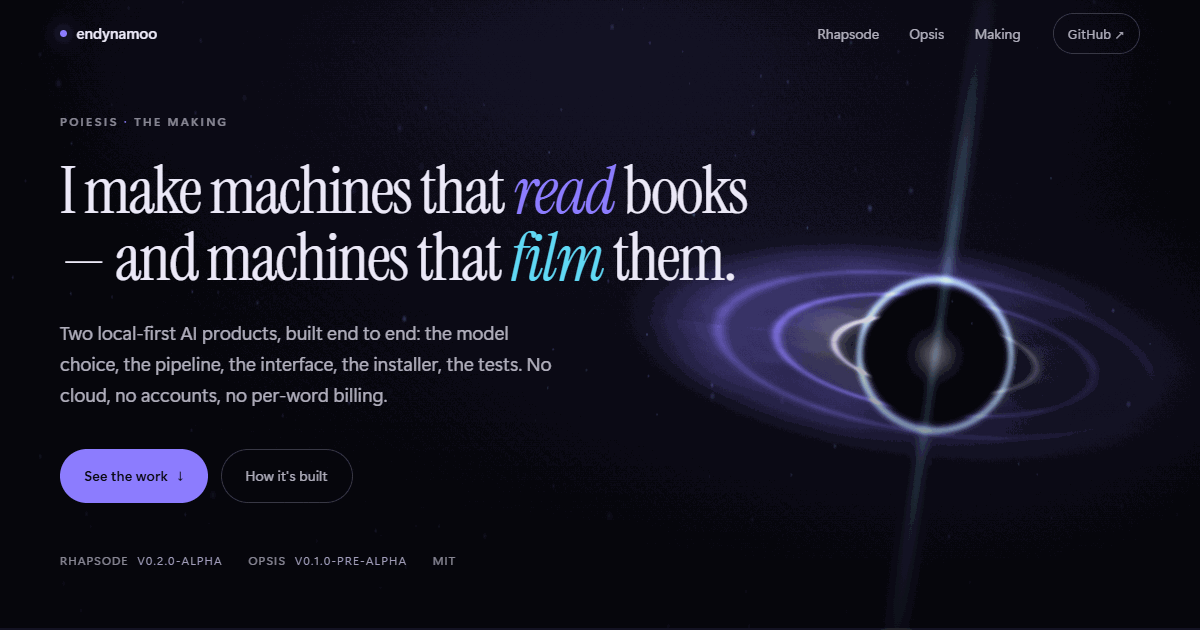
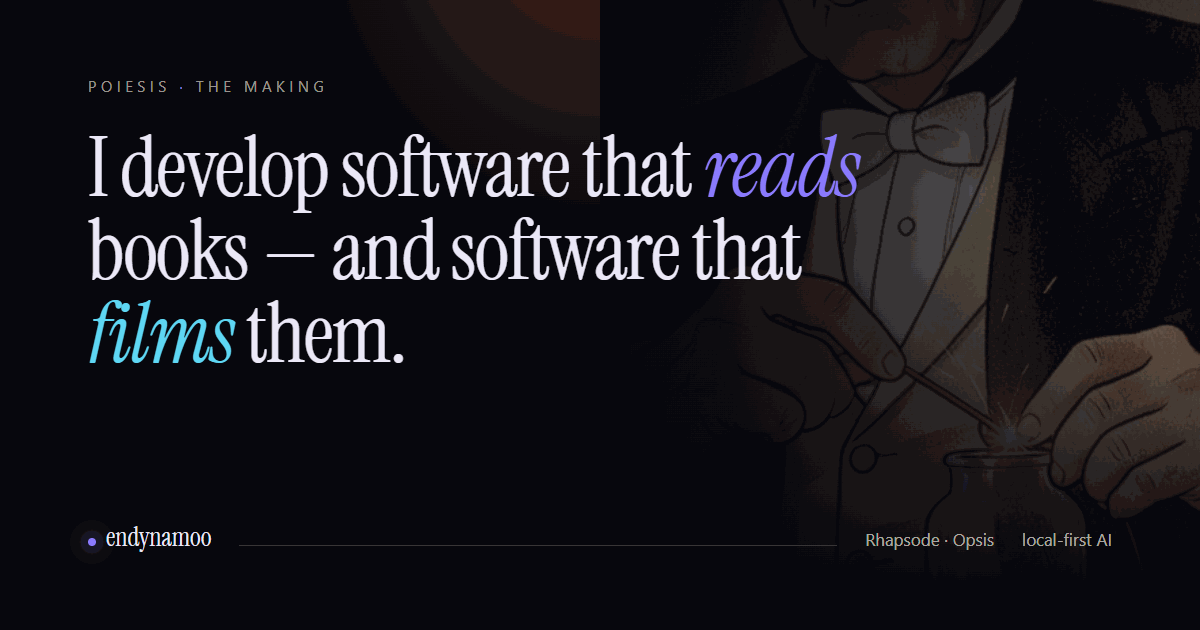
copy: say what I develop, say who builds it, mark Opsis unreleased (#3)
- Hero now reads 'I develop software that reads books - and software that films
  them'; the OG card is re-rendered to match.
- A byline under the lede and a line at the top of The making name endynamoo.
- The Rhapsode panel is current with 0.3.4-beta (translation, search, warm
  playback, formats incl. URL) and the demo slate stops pinning a version.
- The Opsis stage carries an Unreleased - ETA ~2 weeks to public beta banner.

diff --git a/index.html b/index.html
@@ -10,12 +10,12 @@
 <link rel="icon" href="assets/favicon.svg" type="image/svg+xml">
 <meta property="og:type" content="website">
 <meta property="og:title" content="endynamoo — Poiesis">
-<meta property="og:description" content="I make machines that read books — and machines that film them.">
+<meta property="og:description" content="I develop software that reads books - and software that films them.">
 <meta property="og:image" content="https://endynamoo.github.io/poiesis/assets/img/og.png">
 <meta property="og:url" content="https://endynamoo.github.io/poiesis/">
 <meta name="twitter:card" content="summary_large_image">
 <link rel="preload" href="assets/fonts/instrument-serif-latin.woff2" as="font" type="font/woff2" crossorigin>
-<link rel="stylesheet" href="assets/css/site.css?v=7">
+<link rel="stylesheet" href="assets/css/site.css?v=8">
 </head>
 <body>
 <a class="skip" href="#rhapsode">Skip to the work</a>
@@ -45,21 +45,25 @@
     <div class="hero__inner">
       <p class="eyebrow reveal">Poiesis <span class="dot">·</span> the making</p>
       <h1 id="hero-title" class="display">
-        <span class="line">I&nbsp;make machines that <em>read</em> books</span>
-        <span class="line">— and machines that <em class="cold">film</em> them.</span>
+        <span class="line">I&nbsp;develop software that <em>reads</em> books</span>
+        <span class="line">— and software that <em class="cold">films</em> them.</span>
       </h1>
       <p class="lede reveal">
         Two local&#8209;first AI products, built end to end: the model choice, the
         pipeline, the interface, the installer, the tests. No cloud, no accounts,
         no per&#8209;word billing.
       </p>
+      <p class="hero__by reveal">
+        Built by <a href="https://github.com/endynamoo" target="_blank" rel="noopener">endynamoo</a>
+        — software that runs on your machine, not on someone's meter.
+      </p>
       <div class="hero__actions reveal">
         <a class="btn btn--accent" href="#rhapsode">See the work <span aria-hidden="true">↓</span></a>
         <a class="btn btn--ghost" href="#making">How it's built</a>
       </div>
       <ul class="hero__meta reveal">
-        <li>Rhapsode <span>v0.2.0&#8209;alpha</span></li>
-        <li>Opsis <span>v0.1.0&#8209;pre&#8209;alpha</span></li>
+        <li>Rhapsode <span>v0.3.4&#8209;beta</span></li>
+        <li>Opsis <span>v0.1.1&#8209;pre&#8209;alpha</span></li>
         <li>MIT</li>
       </ul>
     </div>
@@ -105,21 +109,23 @@
           It reads to you.<br>Then it paints what you heard.
         </h2>
         <p class="body reveal">
-          Drop in a book, a PDF, a scanned page or a screenshot. Rhapsode speaks it in a
-          local voice and draws a still for every beat — and the highlight follows Kokoro's
-          <em>phoneme timings</em>, not a guess, so the words and the voice never drift apart.
+          Drop in a book, a PDF, a scanned page, a screenshot or a URL. Rhapsode speaks it in a
+          local voice and lights each word as it is said — the highlight follows Kokoro's
+          <em>phoneme timings</em>, not a guess, so the words and the voice never drift apart. It
+          paints a manga still for every beat, and a chapter can be cut into a 1080p film.
         </p>
         <p class="body reveal">
-          OCR is on&#8209;device on all three platforms. Translation is too, through whatever
-          local model you already run. A chapter can be assembled into a 1080p cut, still
-          entirely on your machine.
+          OCR is on&#8209;device on all three platforms, and so is translation — through Apple's
+          own framework on macOS, or a local model you already run anywhere else. Search finds a
+          passage across the whole library by words or by meaning, and opening a book pre-reads
+          the first sentences so the first press of play is instant.
         </p>
 
         <dl class="specs reveal">
-          <div><dt>Voice</dt><dd>Kokoro&#8209;82M, on&#8209;device</dd></div>
-          <div><dt>Library</dt><dd>54 voices · 9 languages · 0.75–3× </dd></div>
-          <div><dt>Formats</dt><dd>EPUB · PDF · DOCX · RTF · MD · OCR</dd></div>
-          <div><dt>Runs on</dt><dd>Windows · macOS · Linux</dd></div>
+          <div><dt>Voice</dt><dd>Kokoro&#8209;82M · 54 voices · 9 languages</dd></div>
+          <div><dt>Reads</dt><dd>EPUB · PDF · DOCX · RTF · MD · OCR · URL</dd></div>
+          <div><dt>Search</dt><dd>Words or meaning, across the library</dd></div>
+          <div><dt>Runs on</dt><dd>Windows · macOS · Linux · 0.75–3×</dd></div>
         </dl>
 
         <a class="arrow-link reveal" href="https://github.com/endynamoo/rhapsode" target="_blank" rel="noopener">
@@ -165,7 +171,7 @@
     <figure class="demo reveal" aria-labelledby="demo-title">
       <div class="demo__slate">
         <p class="demo__rec"><i aria-hidden="true"></i> Unedited take</p>
-        <p class="demo__meta" id="demo-title">Rhapsode 0.2.0 · library, voice, search, chapter film · 1:05</p>
+        <p class="demo__meta" id="demo-title">Rhapsode · library, voice, search, chapter film · 1:05</p>
       </div>
 
       <div class="demo__frame">
@@ -208,7 +214,7 @@
   <section class="opsis" id="opsis" aria-labelledby="opsis-title">
     <div class="opsis__pin">
 
-      <div class="opsis__media" aria-hidden="true">
+      <div class="opsis__media">
         <img src="assets/img/frame-01.webp" alt="" class="opsis__frame is-on" data-frame="0" width="832" height="464">
         <img src="assets/img/frame-02.webp" alt="" class="opsis__frame" data-frame="1" width="832" height="464" loading="lazy">
         <img src="assets/img/frame-03.webp" alt="" class="opsis__frame" data-frame="2" width="832" height="464" loading="lazy">
@@ -217,8 +223,14 @@
         <img src="assets/img/frame-06.webp" alt="" class="opsis__frame" data-frame="5" width="832" height="464" loading="lazy">
         <img src="assets/img/frame-07.webp" alt="" class="opsis__frame" data-frame="6" width="832" height="464" loading="lazy">
         <img src="assets/img/frame-08.webp" alt="" class="opsis__frame" data-frame="7" width="832" height="464" loading="lazy">
-        <div class="opsis__scrim"></div>
-        <p class="opsis__slate"><span id="slate-shot">SHOT 03 / 22</span><span id="slate-take">TAKE b2</span></p>
+        <div class="opsis__scrim" aria-hidden="true"></div>
+        <p class="opsis__slate" aria-hidden="true"><span id="slate-shot">SHOT 03 / 22</span><span id="slate-take">TAKE b2</span></p>
+
+        <p class="opsis__banner">
+          <i aria-hidden="true"></i>
+          <span>Unreleased</span>
+          <span class="opsis__banner-note">ETA ~2 weeks to public beta</span>
+        </p>
       </div>
 
       <div class="opsis__copy">
@@ -279,6 +291,11 @@
       <div class="making__head">
         <p class="index reveal"><span>03</span> The making</p>
         <h2 id="making-title" class="display h2 reveal">Four things I'd want to see<br>if someone showed me an AI product.</h2>
+        <p class="body making__by reveal">
+          All of it is built by one person, under the name
+          <a href="https://github.com/endynamoo" target="_blank" rel="noopener">endynamoo</a> — the
+          same handle on every commit, every release and every installer.
+        </p>
       </div>
 
       <ol class="receipts">

diff --git a/assets/css/site.css b/assets/css/site.css
@@ -263,6 +263,16 @@ code { font-family: var(--mono); font-size: .88em; color: var(--paper-70); }
   margin: 0 0 2.4rem;
 }
 .hero__actions { display: flex; flex-wrap: wrap; gap: .8rem; }
+.hero__by {
+  max-width: 50ch; margin: -1.1rem 0 2.2rem;
+  font-size: .88rem; line-height: 1.6; color: var(--paper-45);
+}
+.hero__by a, .making__by a {
+  color: var(--paper); text-decoration: none;
+  border-bottom: 1px solid var(--accent);
+  transition: color .2s var(--ease), border-color .2s var(--ease);
+}
+.hero__by a:hover, .making__by a:hover { color: var(--accent); border-color: var(--paper); }
 .hero__meta {
   display: flex; flex-wrap: wrap; gap: 1.6rem;
   list-style: none; margin: 3rem 0 0; padding: 0;
@@ -485,6 +495,23 @@ code { font-family: var(--mono); font-size: .88em; color: var(--paper-70); }
   color: var(--paper-45);
 }
 .opsis__slate span:first-child { color: var(--paper); }
+.opsis__banner {
+  position: absolute; z-index: 3; top: 124px; right: var(--gutter);
+  display: inline-flex; align-items: center; gap: .55rem;
+  padding: .45rem .95rem; border-radius: 999px;
+  border: 1px solid rgba(139, 123, 255, .45);
+  background: rgba(139, 123, 255, .10);
+  -webkit-backdrop-filter: blur(8px); backdrop-filter: blur(8px);
+  font-family: var(--mono); font-size: .66rem; letter-spacing: .14em;
+  text-transform: uppercase; color: var(--paper);
+}
+.opsis__banner i {
+  width: 6px; height: 6px; border-radius: 50%; background: var(--accent);
+  box-shadow: 0 0 10px 2px rgba(139, 123, 255, .55);
+  animation: beacon 2.6s ease-in-out infinite;
+}
+.opsis__banner-note { color: var(--paper-45); }
+@keyframes beacon { 0%, 100% { opacity: 1; } 50% { opacity: .35; } }
 .opsis__copy {
   position: relative; z-index: 2;
   width: min(var(--wrap), 100% - var(--gutter) * 2); margin-inline: auto;
@@ -557,6 +584,7 @@ code { font-family: var(--mono); font-size: .88em; color: var(--paper-70); }
     linear-gradient(180deg, #07070d 0%, #0b0b15 40%, #07070d 100%);
 }
 .making__head { max-width: 52rem; margin-bottom: clamp(3rem, 7vh, 5rem); }
+.making__by { margin: 1.5rem 0 0; max-width: 46ch; color: var(--paper-45); line-height: 1.62; }
 .receipts {
   list-style: none; padding: 0; margin: 0;
   display: grid; grid-template-columns: repeat(4, 1fr); gap: 0;
@@ -675,6 +703,7 @@ code { font-family: var(--mono); font-size: .88em; color: var(--paper-70); }
     background: linear-gradient(180deg, rgba(7, 7, 13, .3), rgba(7, 7, 13, .96) 76%, #07070d 100%);
   }
   .opsis__slate { top: 76px; }
+  .opsis__banner { top: 100px; }
   .opsis__copy { padding-top: 0; max-width: none; }
   .opsis__copy > * { max-width: 38rem; }
   .opsis__rail { position: relative; inset: auto; margin: 3rem auto 0; width: min(var(--wrap), 100% - var(--gutter) * 2); }

diff --git a/tools/og-source.html b/tools/og-source.html
@@ -58,7 +58,7 @@
   <div class="scrim"></div>
   <div class="wrap">
     <p class="eyebrow">Poiesis <b>&middot;</b> the making</p>
-    <h1>I make machines that <em>read</em> books &mdash; and machines that <em class="cold">film</em> them.</h1>
+    <h1>I develop software that <em>reads</em> books &mdash; and software that <em class="cold">films</em> them.</h1>
     <div class="foot">
       <span class="name"><span class="dot"></span>endynamoo</span>
       <span class="rule"></span>

diff --git a/docs/superpowers/specs/2026-11-17-poiesis-design.md b/docs/superpowers/specs/2026-11-17-poiesis-design.md
@@ -40,12 +40,14 @@ a black event horizon, a bright photon ring, a tilted accretion disk of violet e
 twin cyan jets along the spin axis — with dust still drifting through the frame. It leans
 toward the pointer and turns. Over it, in a high-contrast serif:
 
-> **I make machines that read books — and machines that film them.**
+> **I develop software that reads books — and software that films them.**
 
-Eyebrow `ENDYNAMoo · POIESIS` small and letterspaced above. Below the headline, one
+Eyebrow `Poiesis · the making` small and letterspaced above. Below the headline, one
 sentence: two products, built end to end, entirely on the machine in front of you — no
-cloud, no accounts, no per-word billing. Two text links: `See the work ↓` and
-`How it's built`. Bottom edge: a hairline scroll progress rail that fills as you read.
+cloud, no accounts, no per-word billing. Then a byline — *Built by endynamoo — software that
+runs on your machine, not on someone's meter* — so authorship is stated where it is read
+rather than only in the footer. Two text links: `See the work ↓` and `How it's built`.
+Bottom edge: a hairline scroll progress rail that fills as you read.
 
 ### 2. Signature strip
 
@@ -85,12 +87,18 @@ a timeline bar of beats — hatched where a clip is missing, wider where the bea
 that makes the product real: the app never holds a GPU context; it writes job files and a
 worker behind a scheduled task renders them, so closing the window cannot kill a render.
 
-Ends with `Opsis on GitHub →`, `v0.1.0-pre-alpha · MIT · Windows 11 · ROCm`, and one honest
+The frame carries a status banner beside the shot slate — violet beacon, `Unreleased · ETA
+~2 weeks to public beta` — because a pre-alpha shown in the same frame as a shipped product
+will be read as one. It sits at the top right in both the pinned stage and the static plate,
+and it is real text rather than decoration, so it is announced to a screen reader too.
+
+Ends with `Opsis on GitHub →`, `v0.1.1-pre-alpha · MIT · Windows 11 · ROCm`, and one honest
 sentence about what it is: a studio that is early, and works.
 
 ### 5. The making
 
-Four columns, each a receipt rather than a claim:
+Four columns, each a receipt rather than a claim, under one sentence that names the author —
+*all of it is built by one person, under the name endynamoo*:
 
 - **Local by construction** — the model weights, audio cache, library and project folders
   are files on the visitor's disk; nothing is uploaded.

diff --git a/CHANGELOG.md b/CHANGELOG.md
@@ -38,6 +38,22 @@ of this file into the README; `tests/test_changelog.py` fails when that copy is 
 
 ### Changed
 
+- **The opening line now says what I actually do.** "I make machines…" was the wrong claim;
+  it reads **I develop software that reads books — and software that films them.** The social
+  card was re-rendered to match, since the headline is baked into it.
+- **Authorship is stated where a visitor reads it**, not only in the footer: a byline under the
+  lede — *Built by endynamoo — software that runs on your machine, not on someone's meter* —
+  and a sentence at the top of *The making* naming the same handle on every commit, release and
+  installer.
+- **The Rhapsode panel is current with 0.3.4-beta** instead of describing 0.2.0: on-device
+  translation through Apple's framework or a local model, library search by words or by
+  meaning, the warm-ahead cache that makes the first press of play instant, and spec rows
+  rewritten to what the repo actually ships (voice and languages, formats incl. URL, search,
+  platforms and 0.75–3×). The demo slate no longer pins a version the take was not recorded
+  from.
+- **The Opsis stage says it is unreleased.** A banner sits on the frame beside the shot slate —
+  violet beacon, `Unreleased · ETA ~2 weeks to public beta` — so a pre-alpha is not read as a
+  shipped product. It is real text, not decoration, so it is announced too.
 - The whole page wears **Rhapsode's palette** instead of its own warm one: violet signal
   (`#8b7bff`) on near-black (`#07070d`), cyan (`#5fd8f5`) as the second voice, and paper
   tinted the same violet (`#ece9f8`). Contrast was re-measured, not assumed — body text

diff --git a/README.md b/README.md
@@ -88,6 +88,6 @@ Newest first. The full history is in [CHANGELOG.md](CHANGELOG.md); this block is
 - The Rhapsode reader drawn in HTML and CSS — a passage from the *Meditations* where the spoken word lifts to paper-white, a waveform that follows the same clock, and an opt-in WebAudio tone so the movement is not decoration.
 - The Opsis stage: eight real stills from chapter one of the pipeline, dissolved by scroll against a beat timeline with a moving playhead and a running timecode. The same frames become a swipeable storyboard strip on phones.
 
-*...and 13 more entries in [CHANGELOG.md](CHANGELOG.md).*
+*...and 17 more entries in [CHANGELOG.md](CHANGELOG.md).*
 
 <!-- CHANGELOG:END -->
